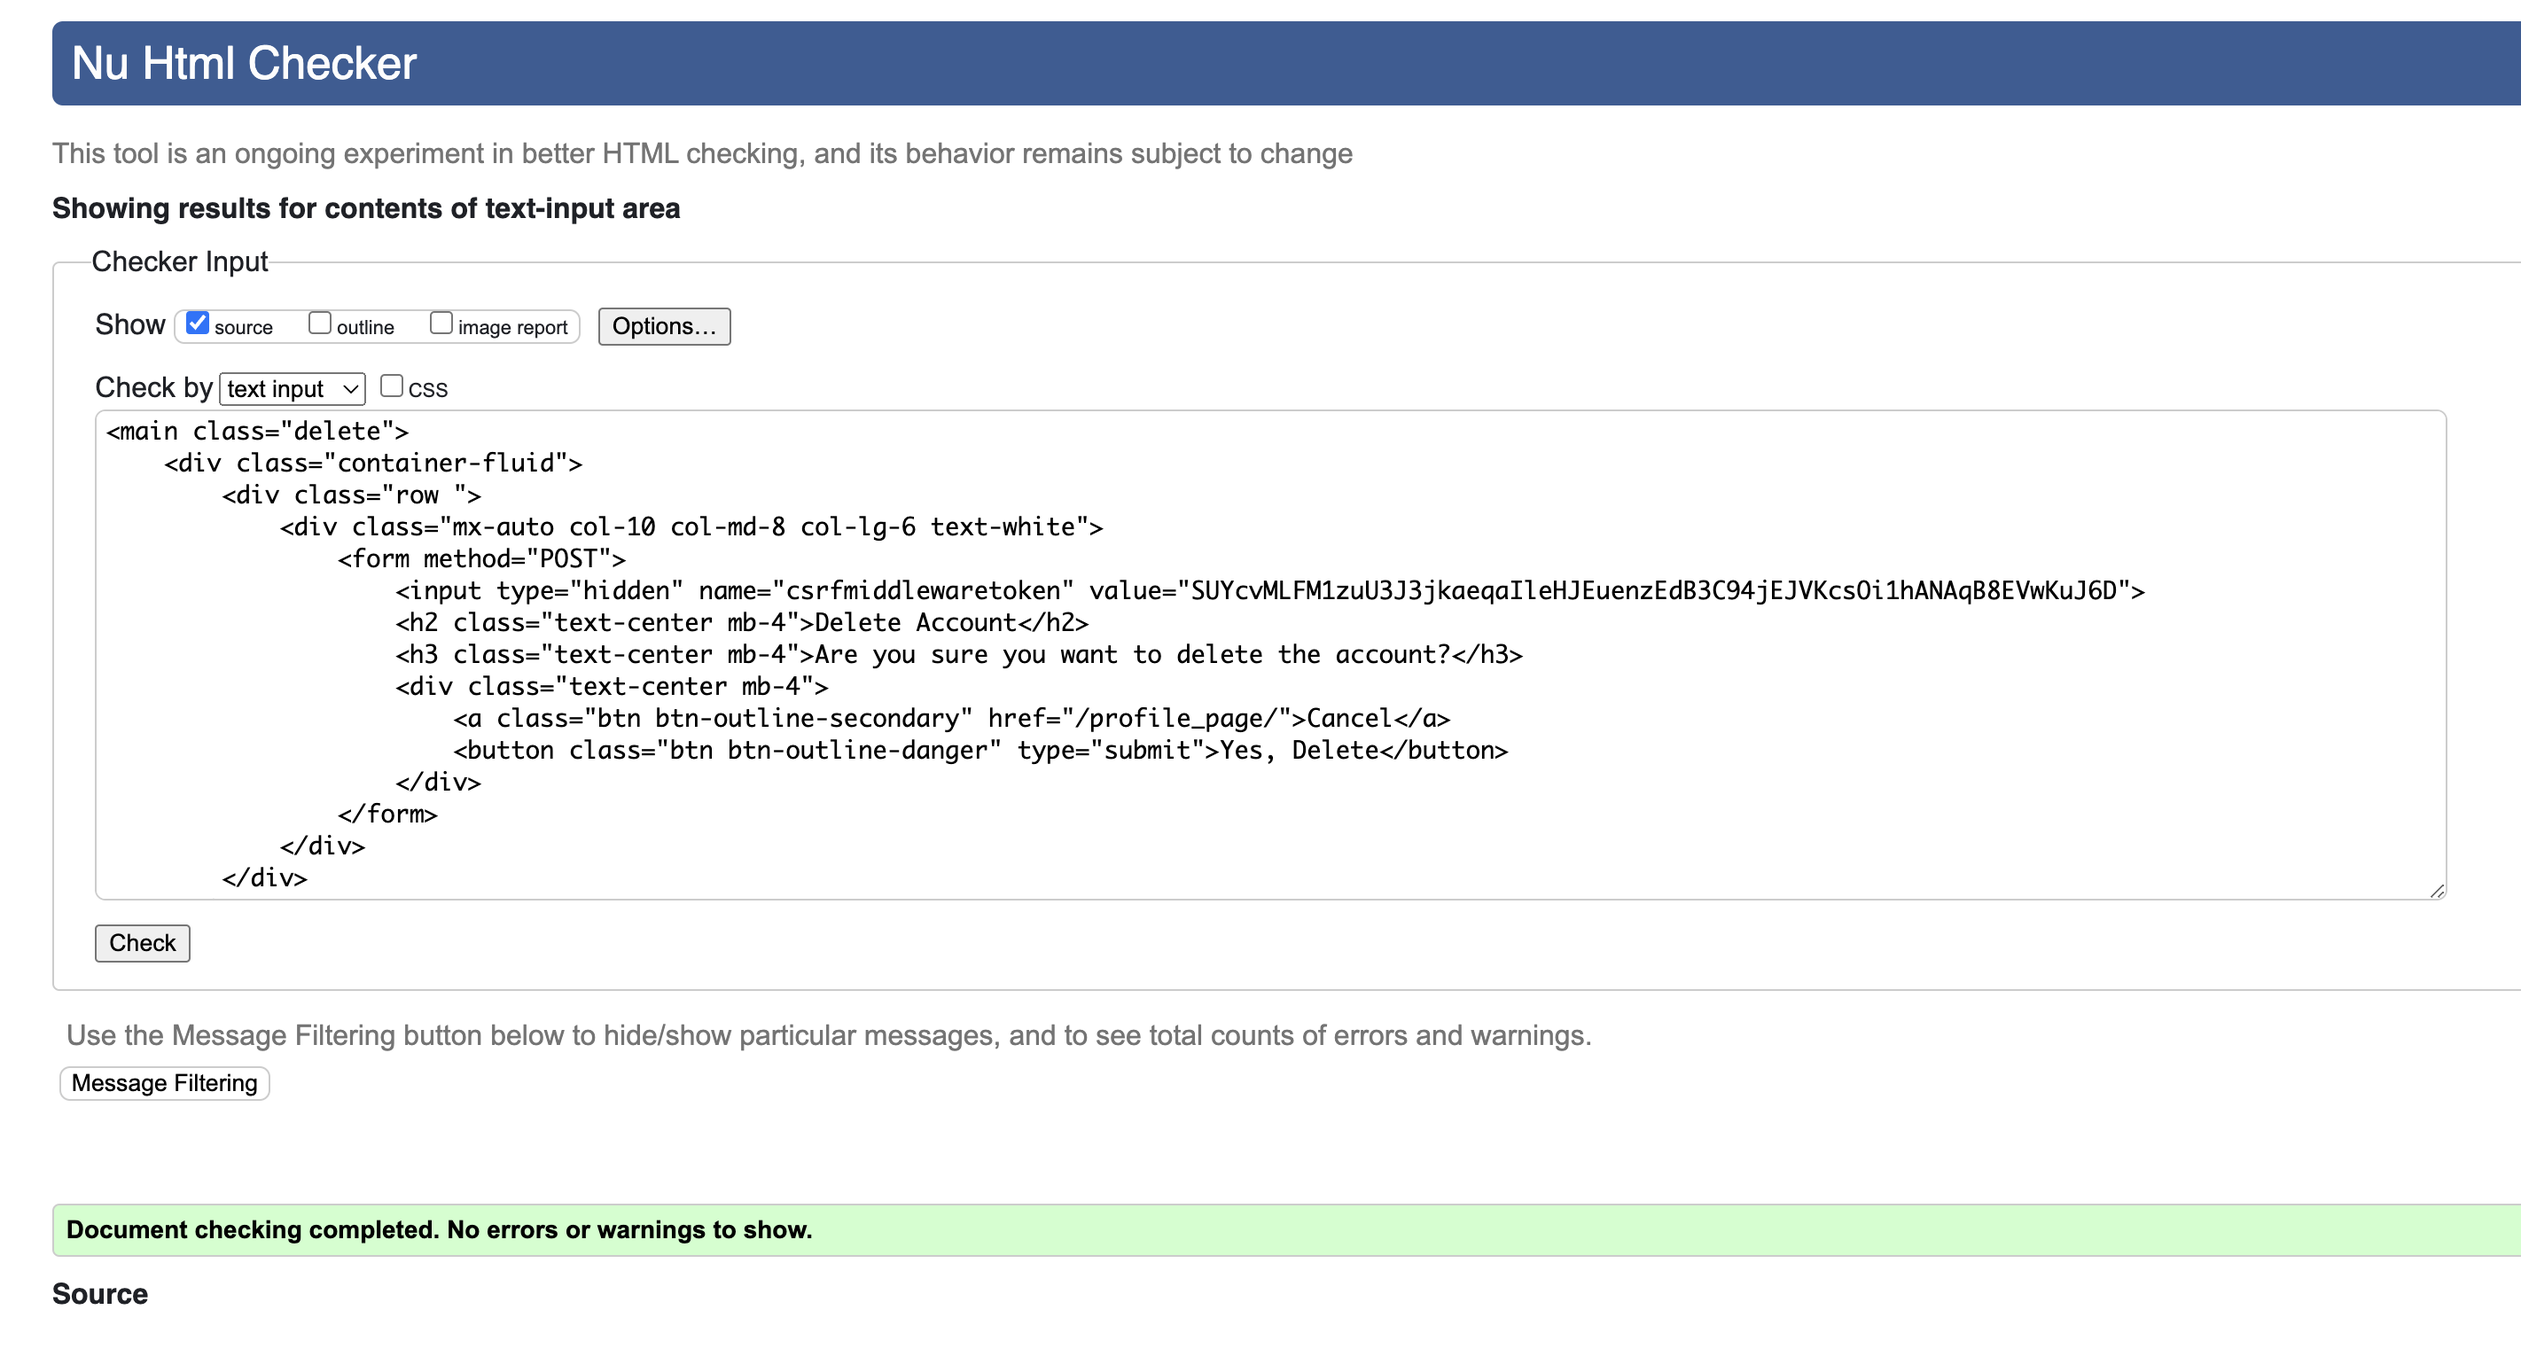
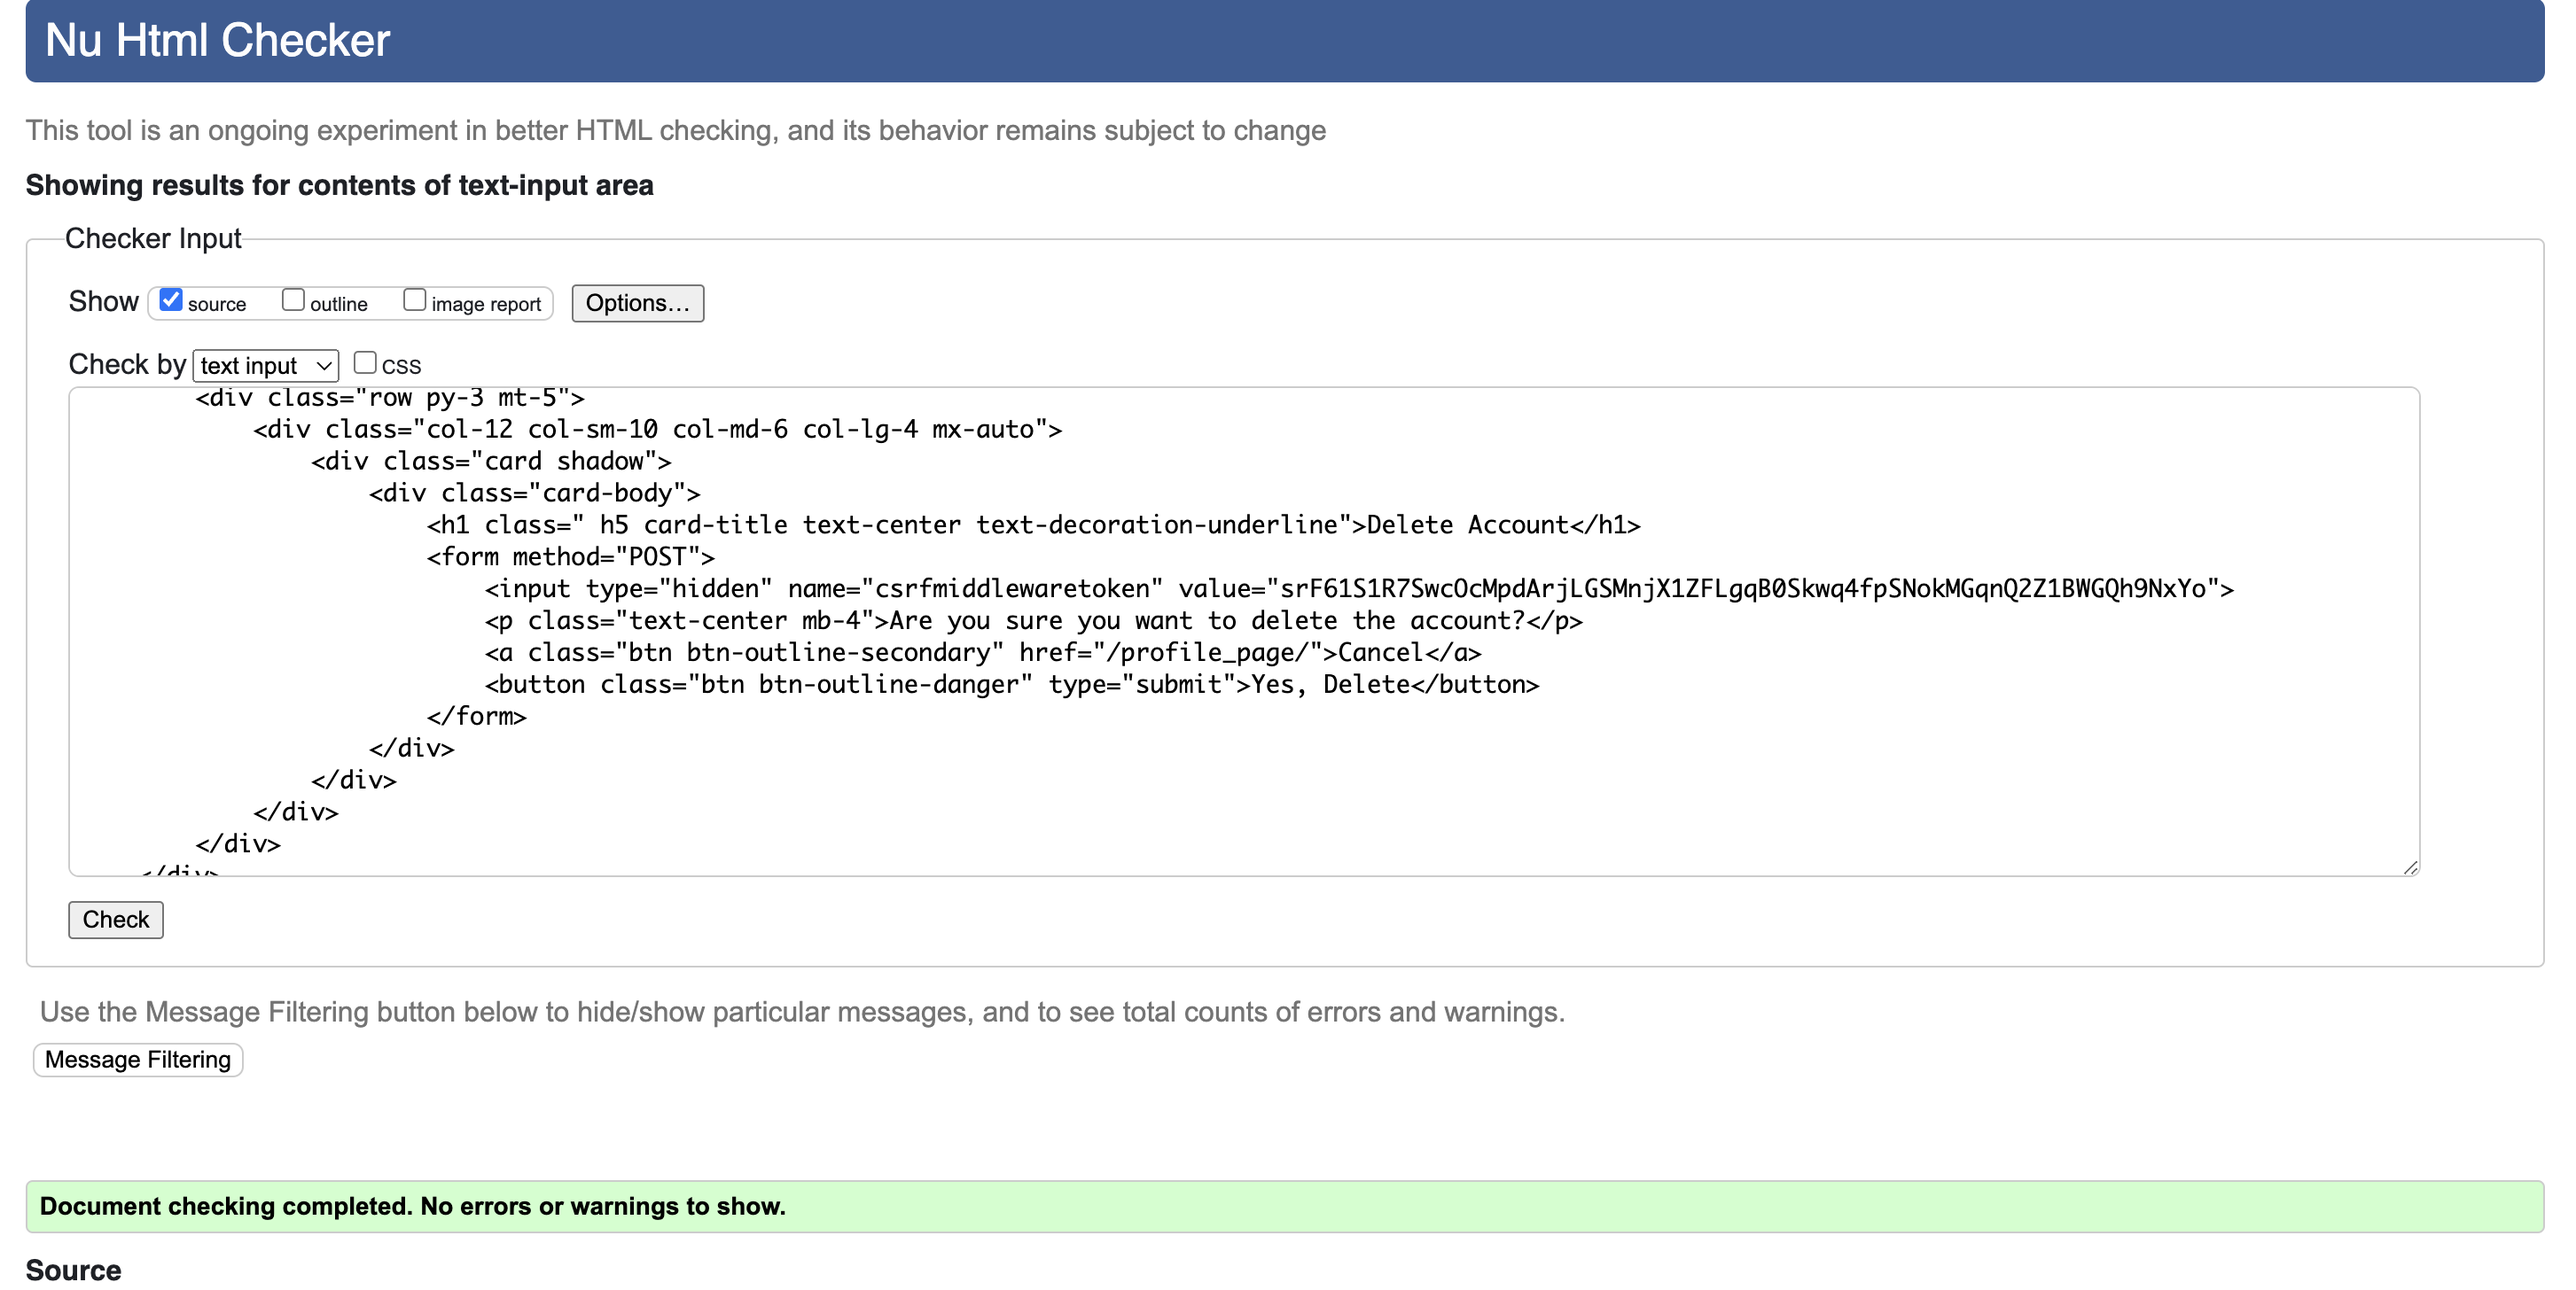
Validation of html files complete and documented in README.md

Changed region(s): [[0.0, 0.0, 1.0, 0.8345], [0.0, 0.8654, 1.0, 1.0]]

diff --git a/home/templates/home/profile_page.html b/home/templates/home/profile_page.html
@@ -24,7 +24,7 @@
                                 alt="default avatar image of any user">
                             {% else %}
                             {% load cloudinary %}
-                            {% cloudinary user.profile.profile_image format="WebP" width=120 height=125 %}
+                            {% cloudinary user.profile.profile_image alt="profile-image" width=120 height=125 %}
                             {% endif %}
                             <div class="mt-3">
                                 <h2 class="h4 text-capitalize font-weight-bold">{{ user.username }}</h2>

diff --git a/booking/templates/booking/booking_confirm_delete.html b/booking/templates/booking/booking_confirm_delete.html
@@ -7,7 +7,7 @@
             <div class="col-12 col-sm-10 col-md-6 col-lg-4 mx-auto">
                 <div class="card shadow">
                     <div class="card-body">
-                        <p class=" h5 card-title text-center text-decoration-underline">Cancel Booking</p>
+                        <h1 class=" h5 card-title text-center text-decoration-underline">Cancel Booking</h1>
                         <form method="POST">
                             {% csrf_token %}
                             <p class="text-center mb-4">Are you sure you want to cancel this booking?</p>

diff --git a/home/templates/home/delete_user.html b/home/templates/home/delete_user.html
@@ -9,7 +9,7 @@
             <div class="col-12 col-sm-10 col-md-6 col-lg-4 mx-auto">
                 <div class="card shadow">
                     <div class="card-body">
-                        <p class=" h5 card-title text-center text-decoration-underline">Delete Account</p>
+                        <h1 class=" h5 card-title text-center text-decoration-underline">Delete Account</h1>
                         <form method="POST">
                             {% csrf_token %}
                             <p class="text-center mb-4">Are you sure you want to delete the account?</p>

diff --git a/stories/templates/stories/story_delete_confirm.html b/stories/templates/stories/story_delete_confirm.html
@@ -8,7 +8,7 @@
             <div class="col-12 col-sm-10 col-md-6 col-lg-4 mx-auto">
                 <div class="card shadow">
                     <div class="card-body">
-                        <p class=" h5 card-title text-center text-decoration-underline">Delete Story</p>
+                        <h1 class=" h5 card-title text-center text-decoration-underline">Delete Story</h1>
                         <form method="POST">
                             {% csrf_token %}
                             <p class="text-center mb-4">Are you sure you want to delete the story?</p>

diff --git a/README.md b/README.md
@@ -205,15 +205,15 @@ Project code structure is organized and divided into various application folders
 </details>
 
 <details><summary>Profile</summary>
-<img src="" >
+<img src="documentation/html-validations/profile-page.png" >
 </details>
 
 <details><summary>Edit profile</summary>
-<img src="">
+<img src="documentation/html-validations/edit-profile.png">
 </details>
 
-<details><summary>Delete profile</summary>
-<img src="documentation/html-validations/delete-user.png" >
+<details><summary>Delete User</summary>
+<img src="home/templates/home/delete_user.html" >
 </details>
 
 <details><summary>Humanitas Stories</summary>
@@ -233,7 +233,7 @@ Project code structure is organized and divided into various application folders
 </details>
 
 <details><summary>Delete Story</summary>
-<img src="documentation/html-validations/story-delete.png" >
+<img src="documentation/html-validations/delete-story.png" >
 </details>
 
 <details><summary>Booking Home Page </summary>
